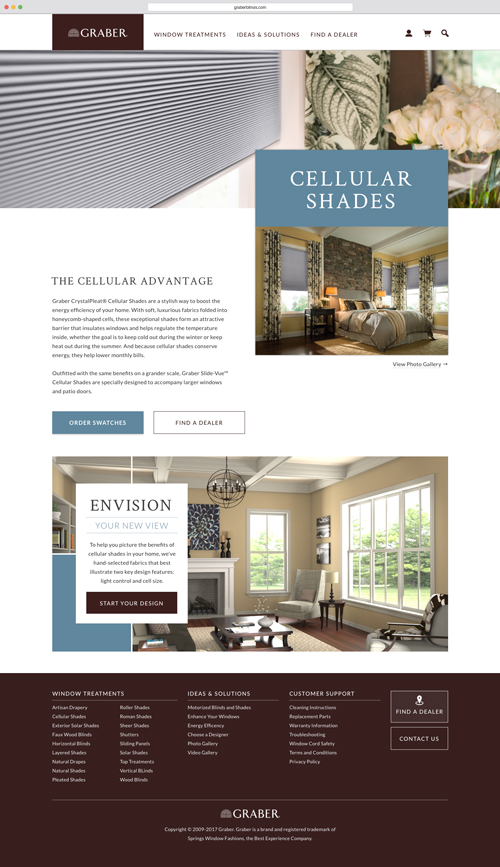
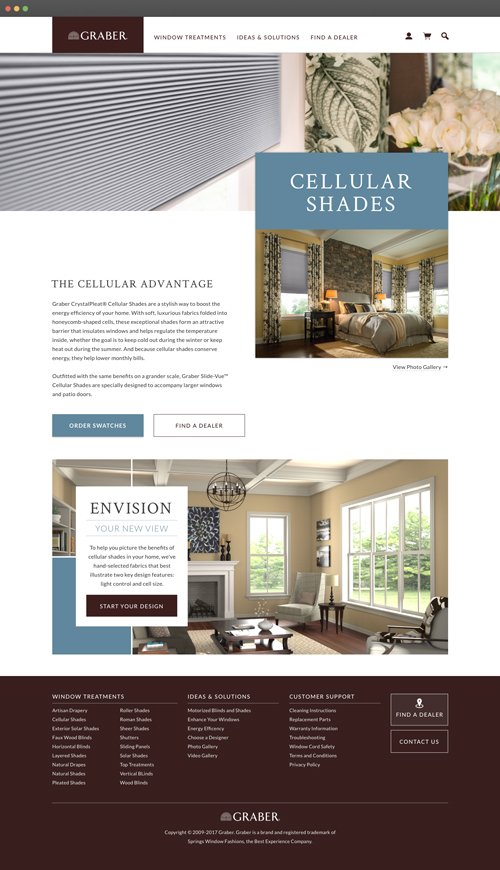
Updated Graber Visualization images

diff --git a/portfolio/graber-visualization/index.html b/portfolio/graber-visualization/index.html
@@ -14,31 +14,13 @@ next-project: fluxx
   alt="Graber Blinds Cellular Shades product page"
   class="project-main-image browser-mockup-outline">
 
-  <!-- <img
+  <img
     sizes="100vw"
-    srcset="/assets/graber-visualization/visualization-tool-education-steps-small.jpg 500w,
-            /assets/graber-visualization/visualization-tool-education-steps-medium.jpg 750w,
-            /assets/graber-visualization/visualization-tool-education-steps-large.jpg 1000w,
-            /assets/graber-visualization/visualization-tool-education-steps-extralarge.jpg 2000w"
-    alt="Two steps that educate about two cellular shade features: cell size and light control"> -->
-
-  <img
-    sizes="(min-width:40em) 52vw, 100vw"
-    srcset="/assets/graber-visualization/visualization-tool-education-step-1-small.jpg 500w,
-            /assets/graber-visualization/visualization-tool-education-step-1-medium.jpg 750w,
-            /assets/graber-visualization/visualization-tool-education-step-1-large.jpg 1000w,
-            /assets/graber-visualization/visualization-tool-education-step-1-extralarge.jpg 2000w"
-    alt=""
-    class="portfolio-image-half left browser-mockup-outline">
-
-  <img
-    sizes="(min-width:40em) 52vw, 100vw"
-    srcset="/assets/graber-visualization/visualization-tool-education-step-2-small.jpg 500w,
-            /assets/graber-visualization/visualization-tool-education-step-2-medium.jpg 750w,
-            /assets/graber-visualization/visualization-tool-education-step-2-large.jpg 1000w,
-            /assets/graber-visualization/visualization-tool-education-step-2-extralarge.jpg 2000w"
-    alt=""
-    class="portfolio-image-half right browser-mockup-outline">
+    srcset="/assets/graber-visualization/visualization-steps-1-2-small.jpg 500w,
+            /assets/graber-visualization/visualization-steps-1-2-medium.jpg 750w,
+            /assets/graber-visualization/visualization-steps-1-2-large.jpg 1000w,
+            /assets/graber-visualization/visualization-steps-1-2-extralarge.jpg 2000w"
+    alt="Two steps that educate about two cellular shade features: cell size and light control">
 
   <img
     sizes="100vw"
@@ -47,7 +29,7 @@ next-project: fluxx
             /assets/graber-visualization/visualization-tool-large.jpg 1000w,
             /assets/graber-visualization/visualization-tool-extralarge.jpg 1440w"
     alt="Graber Blinds Cellular Shades visualization tool"
-    class="browser-mockup-outline">
+    class="right-three-quarters browser-mockup-outline">
 
 <div class="text-columns project-details little-p">
   <div class="full-width">
